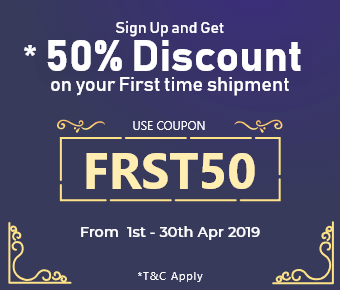
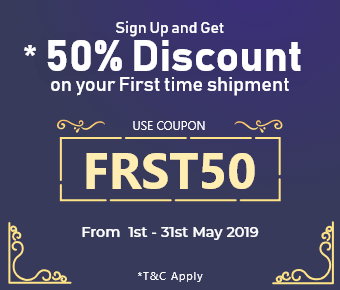
fix(Offerpage): Fisrt Shipment & Doc Offer image updated (#874) (#875)
fix(Offerpage): First Shipment & Doc Offer image updated

Changed region(s): [[0.4706, 0.7759, 0.7647, 0.8379], [0.2353, 0.7759, 0.4412, 0.8379]]

diff --git a/resources/views/page/offers-new.blade.php b/resources/views/page/offers-new.blade.php
@@ -139,14 +139,14 @@
         </div>
         <div class="container">
             <br/>
-            <h3 class="header3 p-color-cement-dark font-weight-900">Ecommerce Sales</h3>
+            <h3 class="header3 p-color-cement-dark font-weight-900">Indian Shopping Sites May-2019 Sales</h3>
             <br/>
             <div class="row">
                 <div class="col-md-3 col-xs-12">
                     <center>
                         <div class="EcomBox">
-                            <h4 class="header4 p-color-blue text-transform-u font-weight-900">Super Value Week</h4>
-                            <h5 class="header6 p-color-cement font-weight-900">23rd to 29th April 2019</h5>
+                            <h4 class="header4 p-color-blue text-transform-u font-weight-900">Flipstart Days</h4>
+                            <h5 class="header6 p-color-cement font-weight-900">1st to 3rd May 2019</h5>
                             <div class="ecomSmallBox">
                                 <a href="/flipkart-shopping-with-shoppre-from-india"
                                    target="_blank">
@@ -202,8 +202,8 @@
                 <div class="col-md-3 col-xs-12">
                     <center>
                         <div class="EcomBox">
-                            <h4 class="header4 p-color-blue text-transform-u font-weight-900">Brand Day</h4>
-                            <h5 class="header6 p-color-cement font-weight-900">MIN. 40% OFF</h5>
+                            <h4 class="header4 p-color-blue text-transform-u font-weight-900">Myntra Unique</h4>
+                            <h5 class="header6 p-color-cement font-weight-900">MIN. 40% OFF + More</h5>
                             <br>
                             <div class="ecomSmallBox">
                                 <a href="/myntra-online-shopping-shipping-from-india">
@@ -216,7 +216,7 @@
                 <div class="col-md-3 col-xs-12">
                     <center>
                         <div class="EcomBox">
-                            <h4 class="header4 p-color-blue text-transform-u font-weight-900">Your New Season</h4>
+                            <h4 class="header4 p-color-blue text-transform-u font-weight-900">May newness!</h4>
                             <h5 class="header6 p-color-cement font-weight-900">40-70% Off</h5>
                             <div class="ecomSmallBox">
                                 <a href="https://www.ajio.com/?src=shoppre">
@@ -229,10 +229,10 @@
                 <div class="col-md-3 col-xs-12">
                     <center>
                         <div class="EcomBox">
-                            <h4 class="header4 p-color-blue text-transform-u font-weight-900">Just For Prime</h4>
-                            <h5 class="header6 p-color-cement font-weight-900">Up To 70% OFF</h5>
+                            <h4 class="header4 p-color-blue text-transform-u font-weight-900">Summer Sale</h4>
+                            <h5 class="header6 p-color-cement font-weight-900">4th to 7th May 2019</h5>
                             <div class="ecomSmallBox">
-                                <a href="/amazon-india-shop-international-shipping">
+                                <a href="https://ship.shoppre.com/shopping-from-amazon-in-india-shipping-worldwide/" target="_blank">
                                   <img src="https://d2njzkuk16ywue.cloudfront.net/cdn/img/stores/amazon-india-shopping.png" style="height:100px"/>
                                 </a>
                             </div>
@@ -243,7 +243,7 @@
                     <center>
                         <div class="EcomBox">
                             <h4 class="header4 p-color-blue text-transform-u font-weight-900">Brand Day</h4>
-                            <h5 class="header6 p-color-cement font-weight-900">30-50% Off</h5>
+                            <h5 class="header6 p-color-cement font-weight-900">30-60% Off</h5>
                             <div class="ecomSmallBox">
                                 <a href="https://www.jabong.com">
                                     <img src="https://www.shoppre.com/uploads/stores/logo_599691d00e27e.png"/>

diff --git a/resources/views/page/ifs.blade.php b/resources/views/page/ifs.blade.php
@@ -148,6 +148,10 @@
     </section>
 
     <section>
+        <div>
+            <marquee style="margin-top: 30px;" class="f-s-16 f-c-red f-w-9">Dear Customers, Amazon.in Summer Sale Starting on 4th-7th May 2019.
+                <a href="https://ship.shoppre.com/shopping-from-amazon-in-india-shipping-worldwide/" title="Amazon Summer Sale" target="_blank">Click Here</a> for more details.</marquee>
+        </div>
         <div class="container" id="how-it-works">
             <div>
                 <center>
@@ -455,7 +459,7 @@
                 <h4>Get an instant reward of 7 dollars in your ShoppRe wallet just by referring the referral code to a friend.</h4>
                 <h4>Referral gets 7 dollars credited to thier ShoppRe wallet post the shipment done by the referee.</h4>
                 <br>
-                <a href="https://docs.google.com/forms/d/e/1FAIpQLSfJHAyy55cXPjcCeIG-G2FPKmk_Ge_p7cQBsvmoFZ0xWhj4EA/viewform" target="_blank" class="btn-s-r btn-b-r btn ">Join Our Referral Network</a>
+                <a href="https://ship.shoppre.com/refer-and-earn-with-us/" target="_blank" class="btn-s-r btn-b-r btn ">Join Our Referral Network</a>
                 <br>
             </div>
             <div class="col-md-3 col-lg-3 col-sm-12 col-xs-12" >

diff --git a/resources/views/page/first-shipment.blade.php b/resources/views/page/first-shipment.blade.php
@@ -77,7 +77,7 @@
                    <br>
                    <br>
                    <br>
-                   <p class="f-s-10 f-c-l-gray f-w-8">From 1st Apr to 30th Apr 2019</p>
+                   <p class="f-s-10 f-c-l-gray f-w-8">From 1st May to 31st May 2019</p>
 
                </center>
            </div>
@@ -153,7 +153,7 @@
                         <li>Offer Code: <b>FRST50</b></li>
                         <li>Maximum amount that can be availed by a customer is ₹200/-.</li>
                         <li>This offer cannot be clubbed with any other offer.</li>
-                        <li>This Coupon is Valid Upto 30-April-2019</li>
+                        <li>This Coupon is Valid Upto 31-May-2019</li>
                         <li>A customer can avail this offer only once during the offer period.</li>
                         <li>This offer is applicable only for International Shipments.</li>
                         <li>Clearance charges is applicable for Special items</li>
